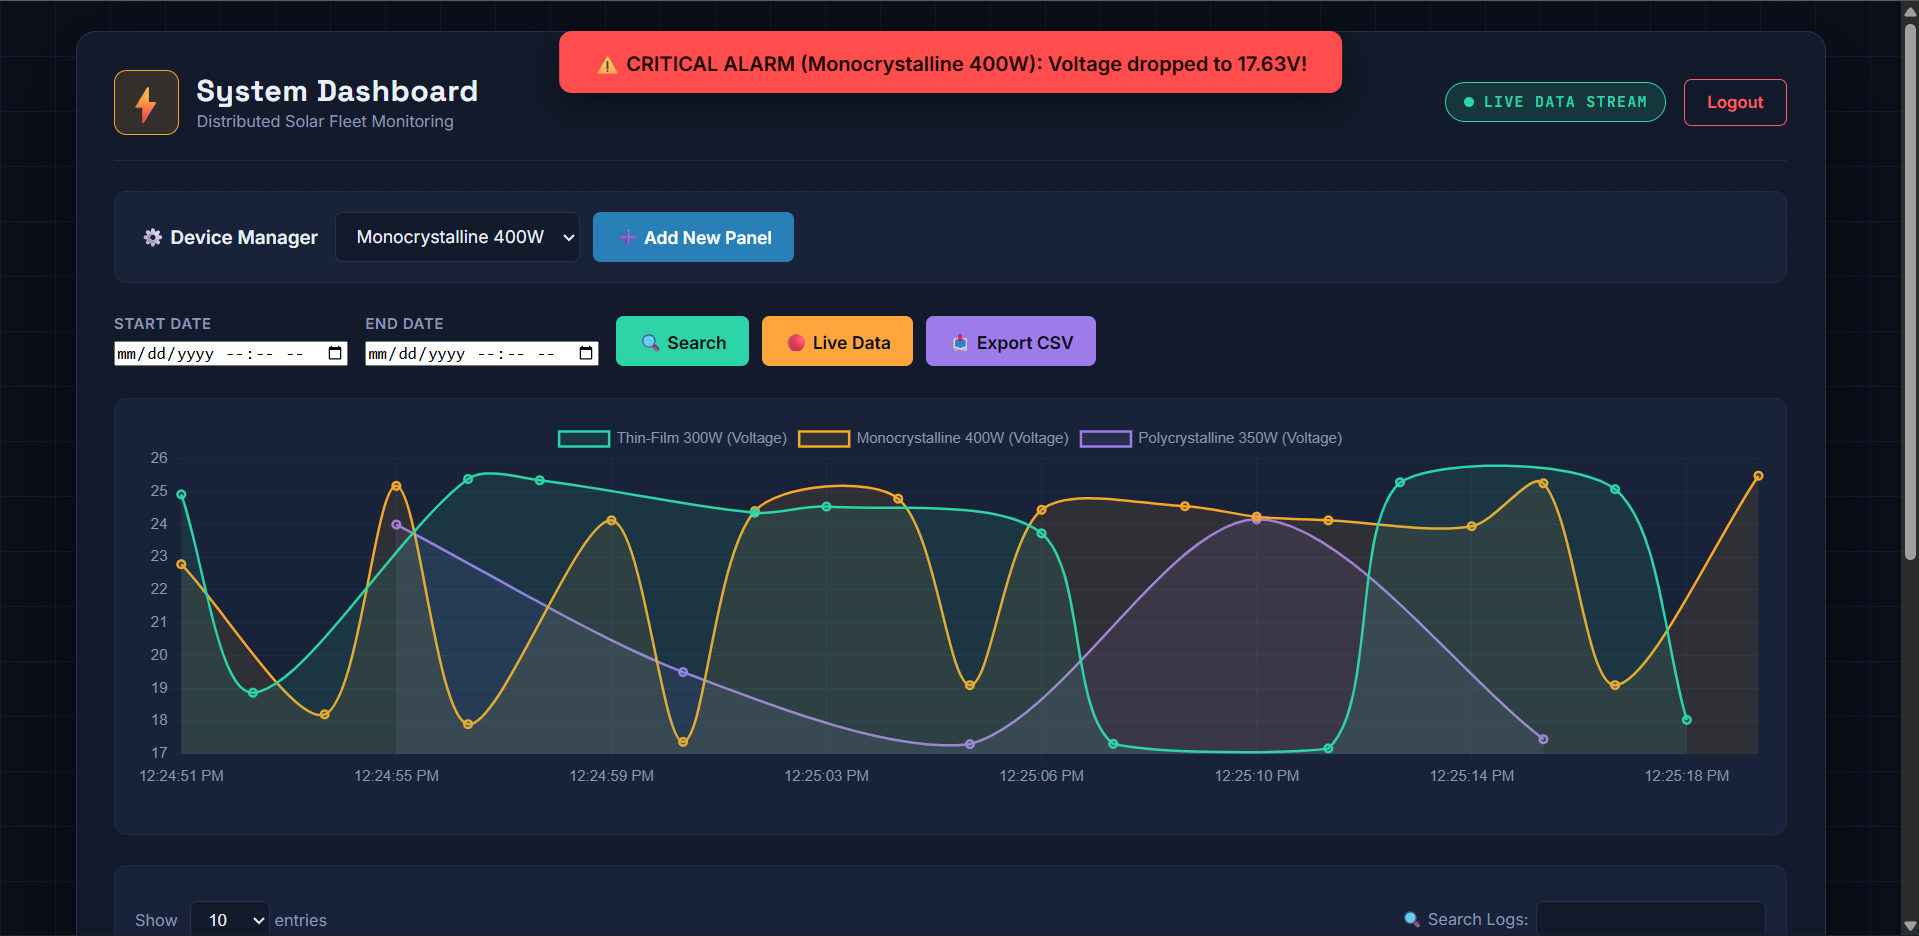
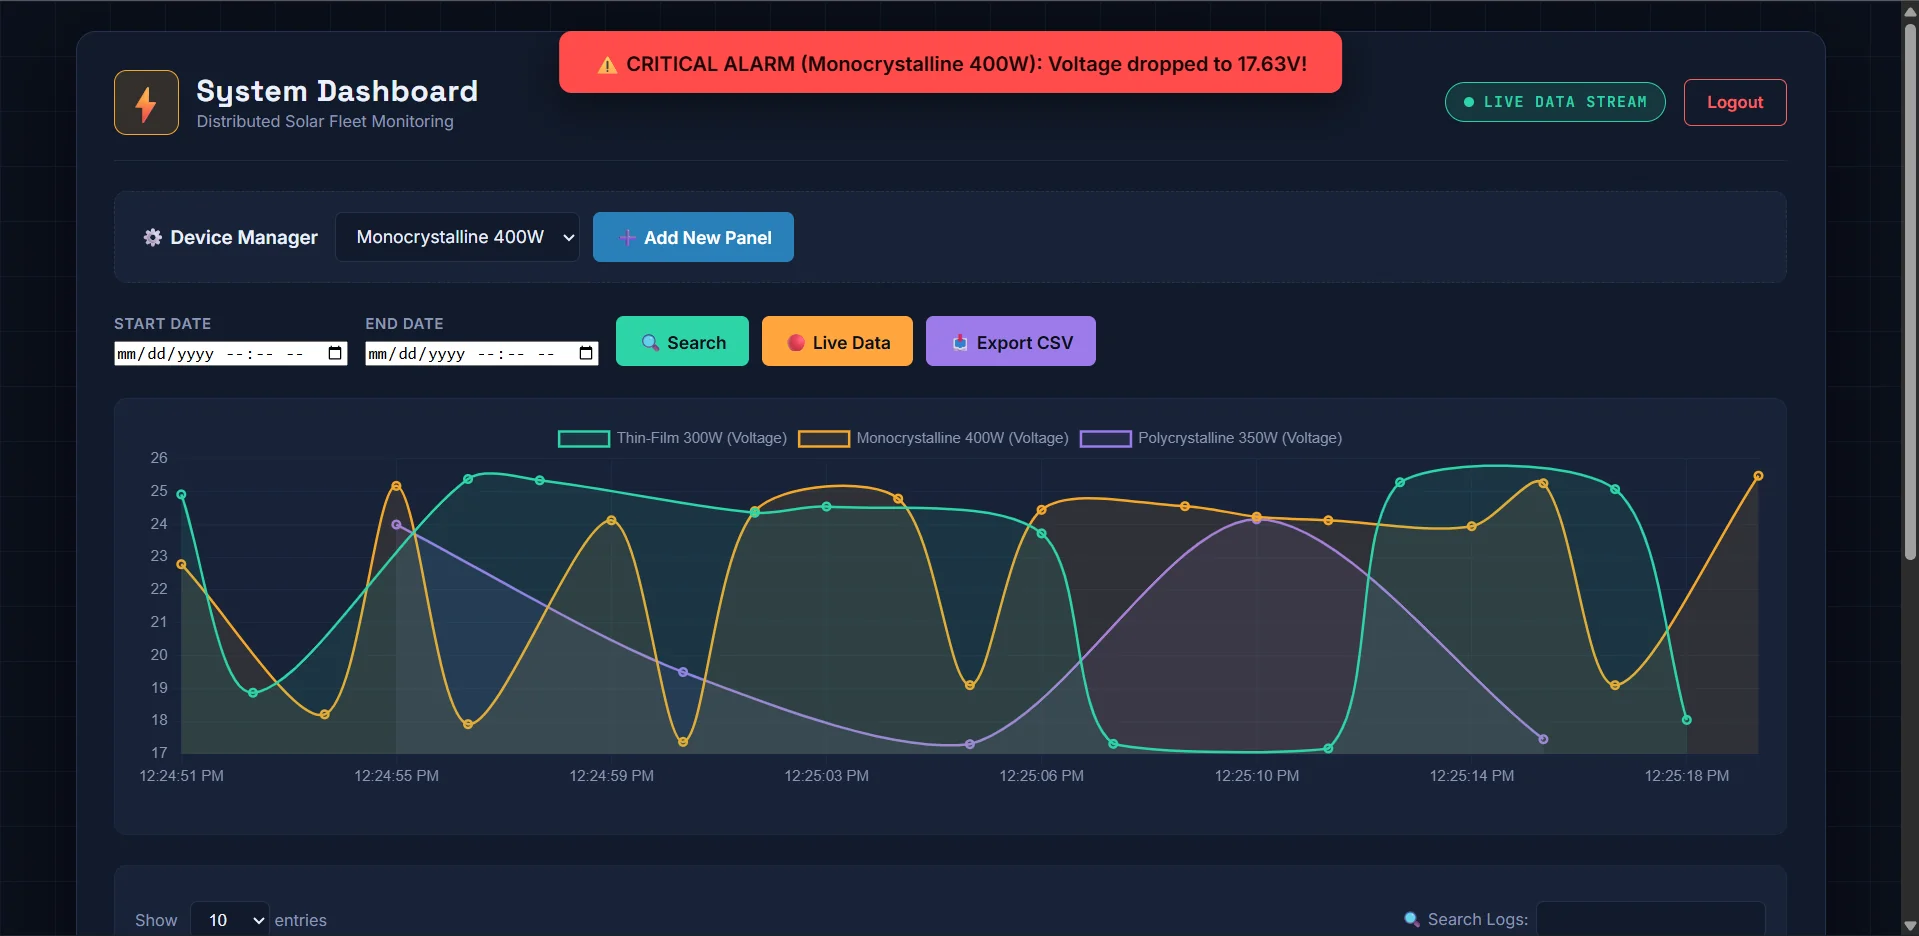
fix(prod): re-encode project images to real webp, prerender static routes, align tech stacks to repos, and add crawler fallback

diff --git a/src/components/ResumePage.tsx b/src/components/ResumePage.tsx
@@ -79,6 +79,8 @@ export const ResumePage: React.FC<ResumePageProps> = ({ onBackToPortfolio }) => 
           <header className="resume-header">
             <h1 className="resume-name">Ebnul Hasan Mahi</h1>
             <p className="resume-contact-bar">
+              <span>Dhaka, Bangladesh (UTC+6) • Open to remote &amp; relocation</span>
+              <span className="sep">•</span>
               <a href="mailto:ebnulhasanmahi001@gmail.com">ebnulhasanmahi001@gmail.com</a>
               <span className="sep">•</span>
               <a href="tel:+8801879450876">+880 1879 450 876</a>
@@ -99,7 +101,7 @@ export const ResumePage: React.FC<ResumePageProps> = ({ onBackToPortfolio }) => 
             <p className="resume-text">
               Software engineering student (CGPA: 3.67) with practical experience building responsive full-stack web applications,
               secure authentication workflows, and relational/document database schemas. Proficient in React, Next.js, Node.js,
-              Express, Better Auth, MySQL, and MongoDB. Committed to clean architecture, reliable fundamentals, and practical software design.
+              Express, MySQL, and WebSockets. Committed to clean architecture, reliable fundamentals, and practical software design.
             </p>
           </section>
 
@@ -109,9 +111,9 @@ export const ResumePage: React.FC<ResumePageProps> = ({ onBackToPortfolio }) => 
             <ul className="resume-skills-list">
               <li><strong>Languages:</strong> JavaScript (ES6+), TypeScript, Java, Python, C/C++, SQL, HTML5, CSS3</li>
               <li><strong>Frontend:</strong> React.js, Next.js, Tailwind CSS, Responsive Design, Web Accessibility</li>
-              <li><strong>Backend &amp; Authentication:</strong> Node.js, Express.js, Better Auth, JWT, Stateless Sessions</li>
-              <li><strong>Databases:</strong> MySQL, MongoDB</li>
-              <li><strong>Tools &amp; Concepts:</strong> Git, GitHub, Postman, Vite, Vercel, OOP, Data Structures &amp; Algorithms</li>
+              <li><strong>Backend &amp; Authentication:</strong> Node.js, Express.js, Spring Boot, FastAPI, JWT, REST APIs, WebSockets</li>
+              <li><strong>Databases:</strong> MySQL, PostgreSQL, MongoDB</li>
+              <li><strong>Tools &amp; Concepts:</strong> Git, GitHub, Postman, Vite, Vercel, Docker, OOP, Data Structures &amp; Algorithms</li>
             </ul>
           </section>
 
@@ -123,7 +125,7 @@ export const ResumePage: React.FC<ResumePageProps> = ({ onBackToPortfolio }) => 
               <div className="resume-entry-header">
                 <div className="resume-entry-title">
                   <strong>Dr. Md. Momenul Islam Health Assistant</strong>
-                  <span className="resume-entry-stack"> — Next.js/React, Python, Vector Search</span>
+                  <span className="resume-entry-stack"> — React, TypeScript, FastAPI, Python, RAG</span>
                 </div>
                 <div className="resume-entry-links">
                   <a href="https://drmomenul.vercel.app" target="_blank" rel="noopener noreferrer">Live Prototype</a> |{' '}
@@ -144,18 +146,18 @@ export const ResumePage: React.FC<ResumePageProps> = ({ onBackToPortfolio }) => 
               <div className="resume-entry-header">
                 <div className="resume-entry-title">
                   <strong>NoboGhat</strong>
-                  <span className="resume-entry-stack"> — Next.js, React, Node.js, Express, MySQL</span>
+                  <span className="resume-entry-stack"> — Next.js, React, Java, Spring Boot, MySQL, JWT</span>
                 </div>
                 <div className="resume-entry-links">
                   <a href="https://noboghatbangladesh.vercel.app/" target="_blank" rel="noopener noreferrer">Live Demo</a> |{' '}
                   <a href="https://github.com/EHMahi9/NoboGhat-Bangladesh" target="_blank" rel="noopener noreferrer">GitHub</a>
                 </div>
               </div>
-              <p className="resume-entry-sub">Full-stack multi-vendor marketplace platform</p>
+              <p className="resume-entry-sub">Decoupled inland waterway logistics &amp; cargo booking platform</p>
               <ul className="resume-bullets">
-                <li>Developed a high-performance frontend using Next.js and Tailwind CSS with server-side rendering.</li>
-                <li>Engineered backend APIs connected to a relational MySQL schema with role-based access.</li>
-                <li>Implemented end-to-end user flows including product discovery, shopping cart state management, and checkout.</li>
+                <li>Developed a responsive, accessible frontend using Next.js and Tailwind CSS with server-side rendering.</li>
+                <li>Engineered decoupled backend services with Java, Spring Boot, and MySQL for boat discovery and capacity-aware cargo booking.</li>
+                <li>Implemented live cargo capacity tracking and role-based access control for farmers, traders, and boat operators.</li>
               </ul>
             </div>
 
@@ -163,18 +165,18 @@ export const ResumePage: React.FC<ResumePageProps> = ({ onBackToPortfolio }) => 
               <div className="resume-entry-header">
                 <div className="resume-entry-title">
                   <strong>HeliosTrack</strong>
-                  <span className="resume-entry-stack"> — React, Node.js, Express, MongoDB</span>
+                  <span className="resume-entry-stack"> — React, Node.js, Express, MySQL, WebSockets, Chart.js</span>
                 </div>
                 <div className="resume-entry-links">
                   <a href="https://helios-track-distributed-solar-moni.vercel.app/" target="_blank" rel="noopener noreferrer">Live Demo</a> |{' '}
                   <a href="https://github.com/EHMahi9/HeliosTrack---Distributed-Solar-Monitoring-System" target="_blank" rel="noopener noreferrer">GitHub</a>
                 </div>
               </div>
-              <p className="resume-entry-sub">Distributed solar energy monitoring dashboard</p>
+              <p className="resume-entry-sub">Real-time distributed solar array monitoring dashboard</p>
               <ul className="resume-bullets">
-                <li>Designed and built a responsive telemetry dashboard visualizing distributed solar panel outputs.</li>
-                <li>Developed REST API endpoints with Node.js and Express to ingest and serve inverter telemetry data.</li>
-                <li>Structured MongoDB schemas for efficient querying of generation metrics and real-time operational status.</li>
+                <li>Designed and built an enterprise telemetry dashboard featuring sub-second live telemetry streaming via WebSockets.</li>
+                <li>Integrated interactive Chart.js grid and virtual battery controller to visualize distributed solar array performance.</li>
+                <li>Connected Node.js API with Aiven Cloud MySQL database for reliable persistence and fast querying of inverter metrics.</li>
               </ul>
             </div>
           </section>

diff --git a/index.html b/index.html
@@ -93,7 +93,35 @@
     </script>
 </head>
 <body>
-    <div id="root"></div>
+    <div id="root">
+        <header>
+            <h1>Ebnul Hasan Mahi</h1>
+            <p><strong>Software Engineering Student &amp; Full-Stack Developer</strong></p>
+            <p>Dhaka, Bangladesh (UTC+6) • Open to remote &amp; relocation</p>
+            <nav aria-label="Direct Navigation">
+                <a href="#about">About</a> •
+                <a href="#skills">Skills</a> •
+                <a href="#projects">Projects</a> •
+                <a href="#contact">Contact</a> •
+                <a href="/resume">Resume</a>
+            </nav>
+        </header>
+        <main>
+            <section id="about-intro">
+                <h2>About Me</h2>
+                <p>Software Engineering student (CGPA: 3.67) specializing in responsive full-stack applications, robust backend APIs, and real-time telemetry systems using React, Next.js, Node.js, Express, Python, Java, and MySQL.</p>
+            </section>
+            <section id="projects-showcase">
+                <h2>Featured Projects</h2>
+                <ul>
+                    <li><strong>Dr. Md. Momenul Islam Health Assistant:</strong> Evidence-grounded health information assistant prototype built in memory of Dr. Md. Momenul Islam.</li>
+                    <li><strong>NoboGhat:</strong> Decoupled inland waterway logistics &amp; cargo booking platform with live capacity tracking.</li>
+                    <li><strong>HeliosTrack:</strong> Real-time distributed solar array monitoring dashboard with sub-second WebSocket telemetry and virtual battery analytics.</li>
+                    <li><strong>Hospital Doctor Duty Roster:</strong> Role-based healthcare scheduling platform with automated shift conflict resolution.</li>
+                </ul>
+            </section>
+        </main>
+    </div>
     <script type="module" src="/src/main.tsx"></script>
 </body>
 </html>

diff --git a/src/data/projectsData.ts b/src/data/projectsData.ts
@@ -84,13 +84,13 @@ export const projectsData: Project[] = [
     shortDescription: 'Decoupled inland waterway logistics platform with live cargo capacity tracking and role-based booking.',
     differentiator: 'Live capacity tracking',
     problem: 'Inland waterway cargo transport suffers from manual booking, hidden pricing, and no real-time capacity tracking for small traders.',
-    solution: 'A decoupled Spring Boot and MySQL backend serving a vanilla JS frontend for role-based boat management, route discovery, and capacity-aware cargo booking.',
+    solution: 'A decoupled architecture featuring a Next.js frontend and Spring Boot / MySQL backend for role-based boat management, route discovery, and capacity-aware cargo booking.',
     features: [
       'Role-based access control for Farmers, Traders, and Boat Owners',
       'Live cargo capacity tracking to mathematically prevent overbooking',
       'Stateless JWT authentication with secure BCrypt password hashing'
     ],
-    technologies: ['Java', 'Spring Boot', 'MySQL', 'JavaScript', 'JWT'],
+    technologies: ['Next.js', 'React', 'Java', 'Spring Boot', 'MySQL', 'JWT'],
     image: '/assets/images/optimized/noboghat-dashboard.webp',
     imageAlt: 'NoboGhat inland waterway logistics platform dashboard',
     browserUrl: 'noboghatbangladesh.vercel.app',

diff --git a/src/components/Contact.tsx b/src/components/Contact.tsx
@@ -128,8 +128,8 @@ export const Contact: React.FC = () => {
           <p className="eyebrow">Contact</p>
           <h2 id="contact-title">Let's talk about internships, junior roles, or project ideas.</h2>
           <p>
-            I am open to opportunities where I can contribute, learn from experienced
-            engineers, and keep improving through real product work.
+            Based in Dhaka, Bangladesh (UTC+6) • Open to remote roles &amp; relocation worldwide.
+            I am eager to contribute, learn alongside experienced engineers, and build reliable product features.
           </p>
 
           <div className="contact-methods">

diff --git a/src/components/Footer.tsx b/src/components/Footer.tsx
@@ -17,7 +17,7 @@ export const Footer: React.FC = () => {
               alt="EHM"
             />
           </a>
-          <p>Software Engineering Student and Full-Stack Developer.</p>
+          <p>Software Engineering Student &amp; Full-Stack Developer • Dhaka, Bangladesh (UTC+6)</p>
         </div>
 
         {/* Footer Navigation Links */}

diff --git a/RESUME.md b/RESUME.md
@@ -1,25 +1,26 @@
 # Ebnul Hasan Mahi
+Dhaka, Bangladesh (UTC+6) • Open to remote & relocation
 ebnulhasanmahi001@gmail.com | +880 1879 450 876 | [linkedin.com/in/ebnul-hasan-mahi](https://www.linkedin.com/in/ebnul-hasan-mahi/) | [github.com/EHMahi9](https://github.com/EHMahi9) | [ebnulhasanmahi.me](https://www.ebnulhasanmahi.me/)
 
 ---
 
 ## PROFESSIONAL SUMMARY
-Software engineering student (CGPA: 3.67) with practical experience building responsive full-stack web applications, secure authentication workflows, and relational/document database schemas. Proficient in React, Next.js, Node.js, Express, Better Auth, MySQL, and MongoDB. Committed to clean architecture, reliable fundamentals, and practical software design.
+Software engineering student (CGPA: 3.67) with practical experience building responsive full-stack web applications, secure authentication workflows, and relational/document database schemas. Proficient in React, Next.js, Node.js, Express, MySQL, and WebSockets. Committed to clean architecture, reliable fundamentals, and practical software design.
 
 ---
 
 ## TECHNICAL SKILLS
 - **Languages**: JavaScript (ES6+), TypeScript, Java, Python, C/C++, SQL, HTML5, CSS3
 - **Frontend**: React.js, Next.js, Tailwind CSS, Responsive Design, Web Accessibility
-- **Backend & Authentication**: Node.js, Express.js, Better Auth, JWT, Stateless Sessions
-- **Databases**: MySQL, MongoDB
-- **Tools & Core Concepts**: Git, GitHub, Postman, Vite, Vercel, Object-Oriented Programming (OOP), Data Structures & Algorithms
+- **Backend & Authentication**: Node.js, Express.js, Spring Boot, FastAPI, JWT, REST APIs, WebSockets
+- **Databases**: MySQL, PostgreSQL, MongoDB
+- **Tools & Core Concepts**: Git, GitHub, Postman, Vite, Vercel, Docker, Object-Oriented Programming (OOP), Data Structures & Algorithms
 
 ---
 
 ## FEATURED PROJECTS
 
-### Dr. Md. Momenul Islam Health Assistant | Next.js/React, Python, Vector Search
+### Dr. Md. Momenul Islam Health Assistant | React, TypeScript, FastAPI, Python, RAG
 *Evidence-grounded health information assistant prototype — Built in memory of Dr. Md. Momenul Islam*
 * [Live Prototype Walkthrough](https://drmomenul.vercel.app) | [GitHub Repository](https://github.com/EHMahi9/Dr.-Md.-Momenul-Islam)
 - Developed a multilingual health assistant interface addressing queries across English, Bangla, and Banglish.
@@ -28,19 +29,19 @@ Software engineering student (CGPA: 3.67) with practical experience building res
 - Built a modern, accessible web interface with responsive conversation flow.
 - *Architecture Note*: Retrieval pipeline runs on a high-memory local environment; web deployment hosts full client triage interface.
 
-### NoboGhat | Next.js, React, Node.js, Express, MySQL
-*Full-stack multi-vendor marketplace platform*
+### NoboGhat | Next.js, React, Java, Spring Boot, MySQL, JWT
+*Decoupled inland waterway logistics & cargo booking platform*
 * [Live Demo](https://noboghatbangladesh.vercel.app/) | [GitHub Repository](https://github.com/EHMahi9/NoboGhat-Bangladesh)
-- Developed a high-performance frontend using Next.js and Tailwind CSS with server-side rendering.
-- Engineered backend APIs connected to a relational MySQL schema with role-based access.
-- Implemented end-to-end user flows including product discovery, shopping cart state management, and checkout.
+- Developed a responsive, accessible frontend using Next.js and Tailwind CSS with server-side rendering.
+- Engineered decoupled backend services with Java, Spring Boot, and MySQL for boat discovery and capacity-aware cargo booking.
+- Implemented live cargo capacity tracking and role-based access control for farmers, traders, and boat operators.
 
-### HeliosTrack | React, Node.js, Express, MongoDB
-*Distributed solar energy monitoring dashboard*
+### HeliosTrack | React, Node.js, Express, MySQL, WebSockets, Chart.js
+*Real-time distributed solar array monitoring dashboard*
 * [Live Demo](https://helios-track-distributed-solar-moni.vercel.app/) | [GitHub Repository](https://github.com/EHMahi9/HeliosTrack---Distributed-Solar-Monitoring-System)
-- Designed and built a responsive telemetry dashboard visualizing distributed solar panel outputs.
-- Developed REST API endpoints with Node.js and Express to ingest and serve inverter telemetry data.
-- Structured MongoDB schemas for efficient querying of generation metrics and real-time operational status.
+- Designed and built an enterprise telemetry dashboard featuring sub-second live telemetry streaming via WebSockets.
+- Integrated interactive Chart.js grid and virtual battery controller to visualize distributed solar array performance.
+- Connected Node.js API with Aiven Cloud MySQL database for reliable persistence and fast querying of inverter metrics.
 
 ---
 
@@ -48,4 +49,4 @@ Software engineering student (CGPA: 3.67) with practical experience building res
 - **Bachelor of Science in Computer Science & Engineering** (In Progress)  
   *Current CGPA: 3.67*
 - **Full-Stack Web Development Training** | Programming Hero (Batch 14, In Progress)  
-  *Coursework covering modern JavaScript, React, Next.js, Node.js, Express, Better Auth, and MongoDB.*
+  *Coursework covering modern JavaScript, React, Next.js, Node.js, Express, MySQL, and Web Development best practices.*
